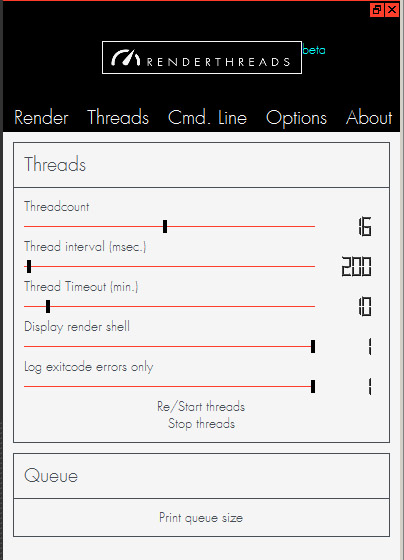
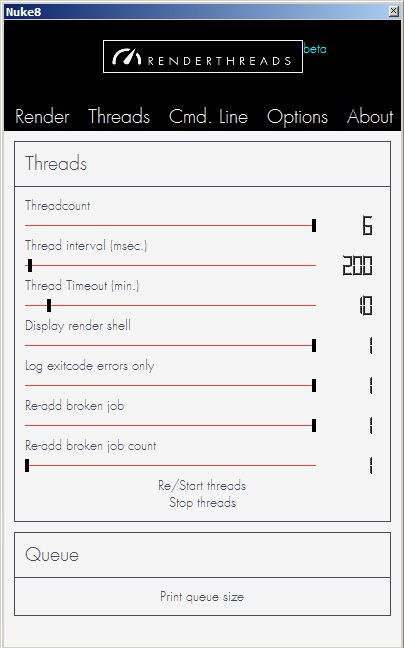
1. Docs: Documented Re-add jobs functionality and some smaller updates (Gitter badge etc.)

diff --git a/docs/source/index.rst b/docs/source/index.rst
@@ -17,6 +17,7 @@
 .. raw:: html
 
 	<h1><a href="https://github.com/timmwagener/renderthreads">renderthreads</a> is a <a href="https://pypi.python.org/pypi/renderthreads/">Python</a> package that enables per-frame easy command-line multithreaded rendering for the popular compositing application <a href="http://www.thefoundry.co.uk/products/nuke/">Nuke</a>. It is created and maintained by <a href="http://www.timmwagener.com/">Timm Wagener</a>.</h1>
+
 ------------------------------------------
 
 .. raw:: html
@@ -27,6 +28,7 @@
 		<a href="http://www.kiiia.com/renderthreads/images/renderthreads_render_progress.jpg" target="_blank"><img width="80" height="80" src="http://www.kiiia.com/renderthreads/images/icn_renderthreads_render_progress.jpg"></a>
 		<a href="http://www.kiiia.com/renderthreads/images/renderthreads_command_line.jpg" target="_blank"><img width="80" height="80" src="http://www.kiiia.com/renderthreads/images/icn_renderthreads_command_line.jpg"></a>
 	</div>
+
 ------------------------------------------
 
 .. image:: https://readthedocs.org/projects/renderthreads/badge/?version=latest
@@ -52,6 +54,11 @@
 .. image:: https://pypip.in/license/renderthreads/badge.svg?style=flat
     :target: https://pypi.python.org/pypi/renderthreads/
     :alt: License
+
+.. image:: https://badges.gitter.im/gitterHQ/gitter.png
+    :target: https://gitter.im/timmwagener/renderthreads
+    :alt: Gitter
+
 ------------------------------------------
 
 Content

diff --git a/docs/source/options.rst b/docs/source/options.rst
@@ -63,6 +63,8 @@ Threads
 * **Thread timeout** is a more **important value**. It sets the time in minutes that a rendering is allowed to take before it is forcibly closed. The default is 10 minutes, but demanding nuke comps can easily take longer. **If you wonder why all your renderings are terminated, a too low timeout setting might be the reason.**
 * **Display render shell** lets you adjust wether or not you want shell windows popping up.
 * **Log exitcode errors only** Wether you just want errors and their exit codes logged (process terminated, timed out, was disabled...) or also sucess messages.
+* **Re-add broken job** Wether or not to add a job to the queue again that terminated unsuccessfully. (With an exitcode different from 0).
+* **Re-add broken job count** How often such an error job gets added again. The default is 2.
 * **Start/Stop threads** Pause rendering. Will finish all currently running jobs and then re/start or stop rendering. All the jobs remain, so this is like a **pause** function.
 * **Print queue size** Print complete count of all jobs.
 

diff --git a/docs/source/quickstart.rst b/docs/source/quickstart.rst
@@ -11,6 +11,7 @@
     :width: 100px
     :align: center
     :alt: renderthreads icon
+
 ------------------------------------------
 
 Quickstart
@@ -80,4 +81,4 @@ To start a command-line rendering with **renderthreads** do the following.
     :align: center
     :alt: renderthreads icon
 
-    You can disable the rendering anytime, like so. Disabling will continue to finish the jobs already started, but not begin all the other ones that are still queued.
+    You can disable the rendering anytime, like so. Disabling will kill the jobs currently running and not start those that are still queued up anymore.

diff --git a/docs/source/compatibility.rst b/docs/source/compatibility.rst
@@ -11,6 +11,7 @@
     :width: 100px
     :align: center
     :alt: renderthreads icon
+
 ------------------------------------------
 
 Compatibility
@@ -28,13 +29,28 @@ Operating systems
 
 ------------------------------------------
 
+Compatible
+**********
 * Windows7
+
+Incompatible
+************
+
+Untested
+********
+* Linux
+* MacOS
 
 Nuke versions
 -------------
 
 ------------------------------------------
 
+Compatible
+**********
 * 9.x
 * 8.x
-* 7.x/below: **Fail** because renderthreads needs Python 2.7
+
+Incompatible
+************
+* 7.x/below: **renderthreads** needs **Python 2.7**

diff --git a/docs/source/installation.rst b/docs/source/installation.rst
@@ -11,6 +11,7 @@
     :width: 100px
     :align: center
     :alt: renderthreads icon
+
 ------------------------------------------
 
 Installation
